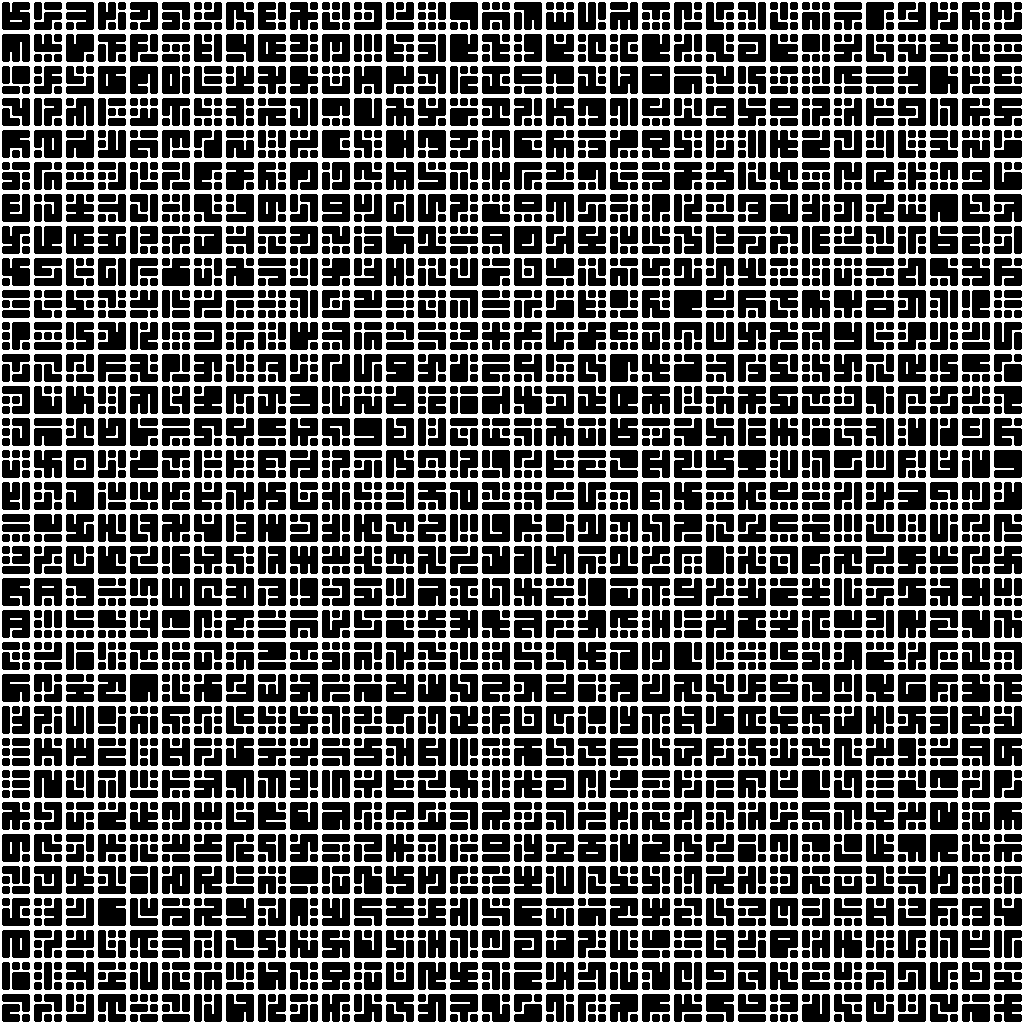
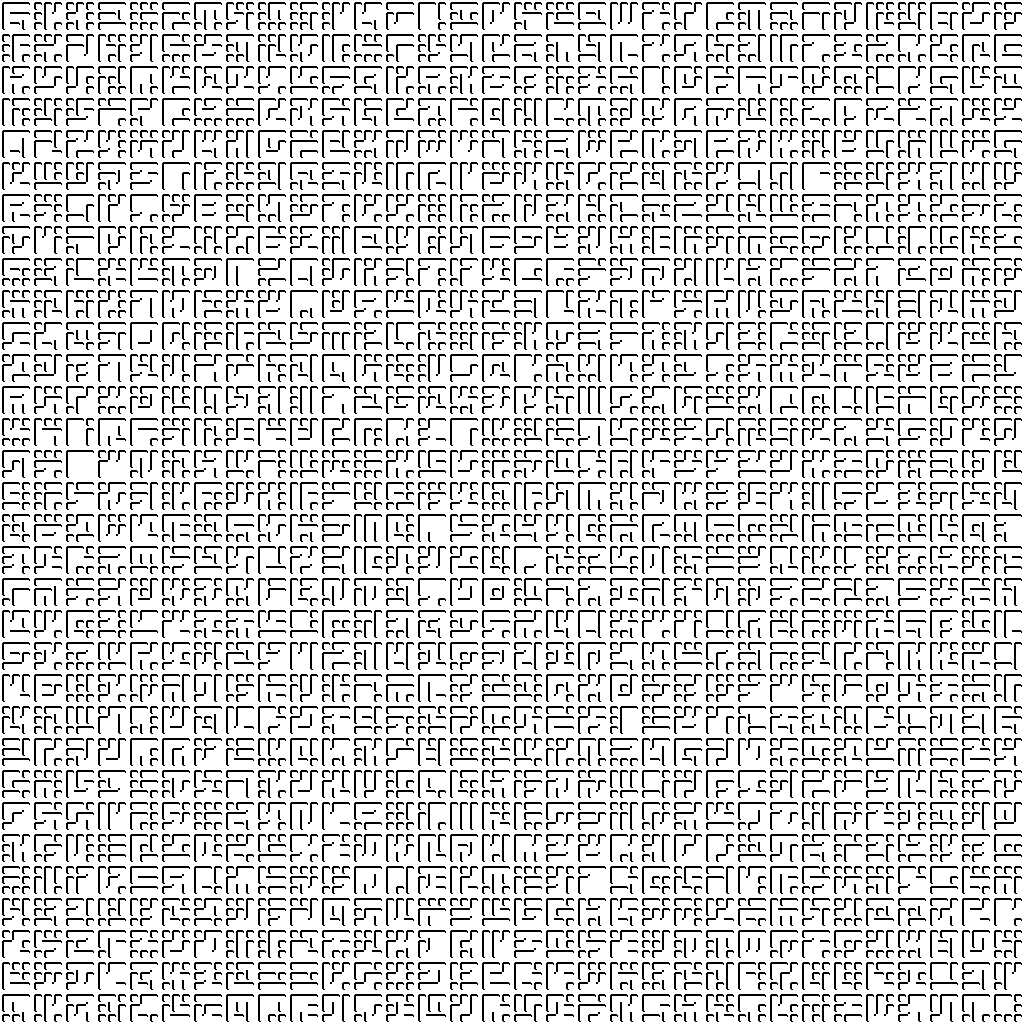
Added shadow function

diff --git a/sprite.py b/sprite.py
@@ -4,6 +4,7 @@
 import PIL
 import Image
 import random
+from copy import deepcopy
 
 
 '''
@@ -57,12 +58,12 @@ def RandomGlyphCode():
   return output
 
 def GlyphFromNumber(n):
-  output=[]
+  output=[0]*12
   b=bin(n)[2:]
   c=[0]*(12-len(b))+list(b)
-  for e in c:
-    output.append(int(e))
-  return list(reversed(output))
+  for e in range(len(c)):
+    output[12-e]=c[e]
+  return output
 
 def draw_empty_block((x,y),array):
   s=8
@@ -150,6 +151,17 @@ def draw_glyph((a,b),code,array):
       array=draw_hole(add_tuple((a,b),holes[n]),array)
   return array
 
+def draw_shadows(array):
+  output=deepcopy(array)
+  for y in range(len(array)):
+    for x in range(len(array[y])):
+      if(array[y][x]==0):
+        if(array[y-1][x]==255 or array[y][x-1]==255 or array[y-2][x]==255 or array[y][x-2]==255):
+          output[y][x]=0
+        else:
+          output[y][x]=255
+  return output
+
 for m in range(h):
   for n in range(w):
     k=RandomGlyphCode()
@@ -157,6 +169,7 @@ for m in range(h):
     #print k
     im_array=draw_glyph((n*icon,m*icon),k,im_array)
 
+im_array=draw_shadows(im_array)
 
 img = Image.new( 'RGB', (icon*h,icon*w), "white") # create a new white image
 pixels = img.load() # create the pixel map
